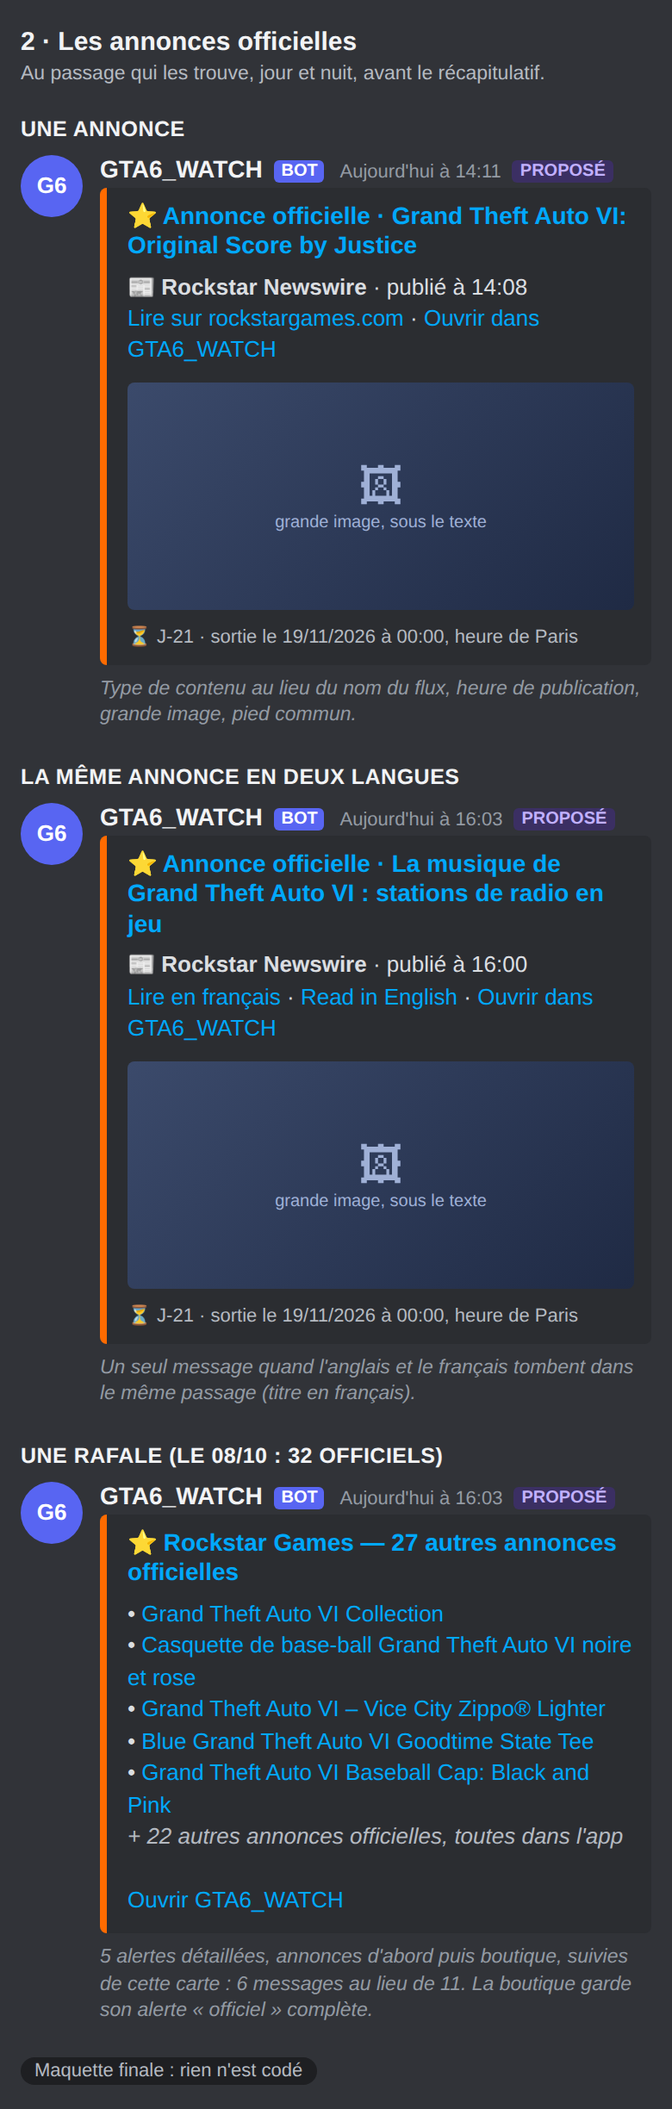
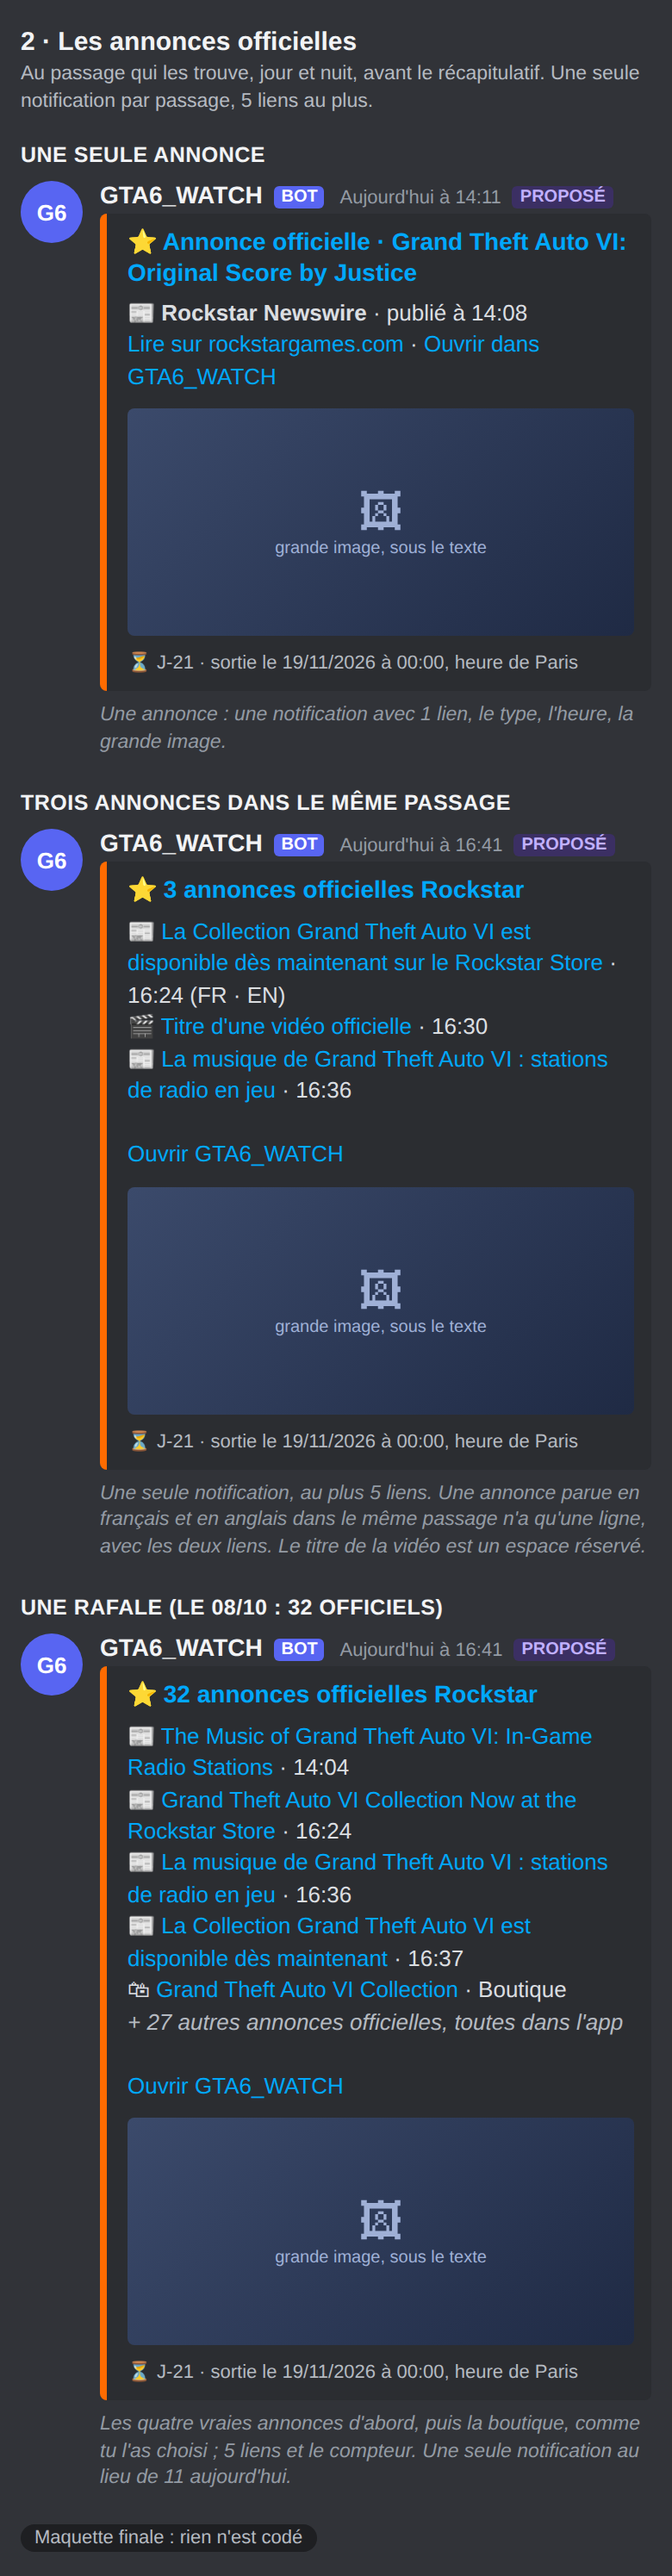
Spec Discord : une seule notification par passage pour les annonces officielles
J'avais compris « 5 messages puis une carte de 5 liens ». Antoni veut 5 liens au plus par
notification, plus un compteur, quelle que soit la catégorie : les annonces d'un passage
tiennent donc dans un seul message (la rafale du 08/10 : 1 message au lieu de 11). Visuels
et spec mis à jour, erreur d'interprétation notée dans le README.

Claude-Session: https://claude.ai/code/session_01DqaCi1a9z33GCLfRvxZycB

diff --git a/tasks/spec-discord-notification.md b/tasks/spec-discord-notification.md
@@ -22,12 +22,13 @@ Visuels, dans `tasks/visuels-discord/` :
 | sujet | décision |
 |---|---|
 | Images | **Une grande image partout** : récapitulatif, annonces officielles, carte RockstarMag. Aucun filtre de spoilers. Discord n'en accepte qu'une par carte et l'affiche **sous le texte**, pas au-dessus (à vérifier en vrai, voir Risques). |
+| Règle commune | **5 liens au plus par notification, puis un compteur pour les autres articles, quelle que soit la catégorie** (récapitulatif, annonces officielles, carte RockstarMag). |
 | Récapitulatif | Reste à **5 lignes puis un compteur**. L'idée « plus de lignes » est retirée. |
 | Compte à rebours | Pied « ⏳ J-N · sortie le 19/11/2026 à 00:00 », couleur de barre du palier du compteur. **Après la sortie : « Sorti depuis N jours ».** |
 | Ligne de chiffres | 🇫🇷 / 🇬🇧 et nombre de médias. |
 | Actu majeure | **Inchangée** : rouge, pas de médias nommés. On **mesure d'abord les médias distincts** (voir 2). |
 | Bilan du soir | Un message par jour à 22 h, **avant et après la sortie**. |
-| Annonces officielles | Grande image, type de contenu, heure de publication, pied commun ; **5 alertes détaillées puis une carte de 5 liens et un compteur** ; **annonces d'abord, boutique ensuite** ; **la boutique garde son alerte « officiel » complète** ; fusion EN/FR avec **titre en français** ; mesure du retard, relue après **10 alertes**. |
+| Annonces officielles | **Une seule notification par passage, 5 liens au plus puis un compteur** ; grande image, type de contenu, heure de publication, pied commun ; **annonces d'abord, boutique ensuite** ; **la boutique garde la catégorie « officiel »** ; fusion EN/FR avec **titre en français** ; mesure du retard, relue après **10 alertes**. |
 | RockstarMag | **Carte séparée**, 🎬 pour les vidéos, extrait du résumé, **silence la nuit**, **reste après la sortie**, couleur de **l'accent de l'app**. Le récapitulatif **liste aussi** ses articles. |
 | Écarté | Mention `@` qui sonne ; passage plus fréquent sur les flux officiels ; vignette filtrée ; rappel d'agenda ; plus de lignes. |
 
@@ -119,13 +120,28 @@ source alors que son lien est sur rockstargames.com.
   embed, **titre en français**, avec les deux liens. Les 55 officiels sans identifiant (boutique,
   vidéos, pages) ne fusionnent jamais. Une alerte déjà partie ne se rattrape pas si l'autre
   langue arrive à un passage suivant.
-- **O6 · 5 alertes détaillées, puis une carte de 5 liens et un compteur.** Le 08/10 (32 officiels,
-  dont 28 produits de boutique) : 5 + 5 liens + 22 = 32, soit **6 messages au lieu de 11**. Le
-  plafond est partagé avec le push (`push_notify.py`, ligne 478) : le passer à 5 le change aussi
-  pour lui, ce qui est sans effet tant qu'il est désactivé. Le README et un test citent ce
-  plafond. **Ordre : les annonces non-boutique d'abord, puis la boutique, chacune par date** :
-  par date décroissante, les 4 vraies annonces du 08/10 auraient été aux rangs 27 à 32, toutes
-  cachées dans le compteur. **La boutique garde son alerte « officiel » complète.**
+- **O6 · Une seule notification par passage : 5 liens au plus, puis un compteur.** Règle
+  d'Antoni : « 5 liens pour des articles par notif, peu importe sa catégorie ». Les
+  annonces d'un même passage ne sont donc **plus des messages séparés** : un message
+  « ⭐ N annonces officielles Rockstar », 5 lignes (📰 / 🎬 / 🛍, titre, heure) et « + N autres
+  annonces officielles, toutes dans l'app ». Une seule annonce donne un message à 1 lien,
+  avec le type, l'heure et la grande image, comme dans O1 à O3. Le 08/10 (32 officiels, dont 28
+  produits de boutique) : **1 message au lieu de 11**.
+  - La grande image est celle de la **première ligne**.
+  - **Ordre : les annonces non-boutique d'abord, puis la boutique, chacune par date** : par
+    date décroissante, les 4 vraies annonces du 08/10 auraient été aux rangs 27 à 32, toutes
+    cachées dans le compteur. **La boutique garde la catégorie « officiel ».**
+  - **Fusion EN/FR (O5)** : une annonce parue en deux langues dans le même passage n'occupe
+    qu'une ligne avec les deux liens, ce qui laisse de la place aux autres.
+  - `NOTIFS_OFFICIELLES_MAX` (aujourd'hui 10 alertes détaillées) devient le nombre de liens
+    d'un message ; il est **partagé avec le push** (`push_notify.py`, ligne 478), qui n'a pas de
+    liens (« titre · et N autres »). Sans effet tant que le push est désactivé ; le README et
+    un test citent ce plafond.
+  - Contrepartie : la vibration et la bannière propres à une annonce isolée (côté app) ne
+    concernent que le push. Sur Discord, un passage riche en annonces fait **une** notification,
+    pas six.
+
+![Les annonces officielles](visuels-discord/final-2.png)
 
 ## 5 · RockstarMag
 
@@ -177,8 +193,9 @@ RockstarMag qui continuent.
   intact, sans image.
 - **Discord limite un embed à 6 000 caractères** : cinq lignes de 343 caractères, des champs et un
   pied tiennent largement.
-- **Trois exceptions à « un seul message par passage »** (sources, officiels, RockstarMag) plus
-  le bilan du soir quotidien.
+- **Exceptions à « un seul message par passage »** : alertes de source, annonces officielles
+  (désormais un seul message pour toutes celles du passage), carte RockstarMag, bilan du soir
+  quotidien.
 - Les maquettes sont des dessins : Discord sur téléphone peut rendre un peu différemment, et les
   images y sont des espaces réservés.
 
@@ -201,8 +218,8 @@ Un lot par PR, chacun avec ses contrôles et sa preuve d'échec, après ton « g
 - Chiffres : langue comptée, y compris à travers la pause nocturne ; pas de nombre de médias le
   matin.
 - Officiels : libellé du domaine du lien, jamais du nom du flux ; domaine inconnu → libellé
-  générique ; 5 alertes puis une carte de 5 liens et le compteur exact (0, 5, 6, 11 et 32
-  officiels) ; annonces avant boutique ; même identifiant d'article dans le même passage → un
+  générique ; **un seul message par passage**, 5 liens au plus et le compteur exact (0, 1, 5,
+  6, 11 et 32 officiels) ; annonces avant boutique ; même identifiant d'article dans le même passage → un
   seul message, identifiants différents → jamais fusionnés ; la ligne de retard n'écrit ni titre,
   ni lien, ni image.
 - RockstarMag : une carte par passage où un article est entré, jamais de nuit ; un seul envoi même

diff --git a/README.md b/README.md
@@ -9789,13 +9789,14 @@ image ; 30 portent un identifiant d'article du Newswire, et **10 des 14 identifi
 existent en anglais et en français**, donc des alertes en double. Le retard réel
 (publication contre alerte) n'est pas mesuré : la spec le propose d'abord.
 
-Mise à jour du 29/10/2026 : « 5 liens max plus un compteur ». Le récapitulatif reste à 5
-lignes (idée 4 retirée). Les annonces officielles passent de 10 alertes détaillées à 5,
-puis une carte de 5 liens et un compteur : la rafale du 08/10 (32 officiels) donnerait 6
-messages au lieu de 11. Le plafond est partagé avec le push. Point d'attention mesuré :
-28 des 32 officiels de ce jour étaient des produits de la boutique ; selon l'ordre
-retenu, les 4 vraies annonces seraient visibles ou cachées dans le compteur (rangs 1, 3,
-5 et 6 contre 27, 28, 30 et 32).
+Mise à jour du 29/10/2026 : « 5 liens max par notification, plus un compteur, quelle que
+soit la catégorie ». Le récapitulatif reste à 5 lignes (idée 4 retirée). Les annonces
+officielles d'un même passage tiennent dans **un seul message** de 5 liens au plus et d'un
+compteur, au lieu de 10 alertes séparées puis une carte : la rafale du 08/10 (32 officiels)
+donnerait 1 message au lieu de 11. **Erreur de ma part, corrigée** : j'avais d'abord compris
+« 5 messages puis une carte de 5 liens ». Point d'attention mesuré : 28 des 32 officiels de ce
+jour étaient des produits de la boutique ; l'ordre retenu (annonces d'abord) évite que les 4
+vraies annonces (rangs 27 à 32 par date décroissante) se retrouvent cachées dans le compteur.
 
 RockstarMag s'ajoute à la même spec (29/10/2026). Mesures : 130 articles sur 3 300, 54
 jours, médiane de 2 par jour (au plus 14), 44 % de vidéos YouTube, 130 sur 130 avec image,

diff --git a/RESTE-A-FAIRE.md b/RESTE-A-FAIRE.md
@@ -1864,3 +1864,7 @@ Spec Discord finale (29/10/2026) : toutes les décisions sont prises, le visuel 
 six lots, le premier étant des **mesures** (retard des officiels, médias distincts de l'actu
 majeure). Rien n'est codé : il manque l'avis d'Antoni sur les visuels, puis son « go ».
 
+Correction du 29/10/2026 : « 5 liens max par notification, quelle que soit la catégorie ». Les
+annonces officielles d'un passage tiennent désormais dans **un seul message** de 5 liens au
+plus et un compteur (j'avais compris 5 messages puis une carte). Visuels et spec mis à jour.
+
